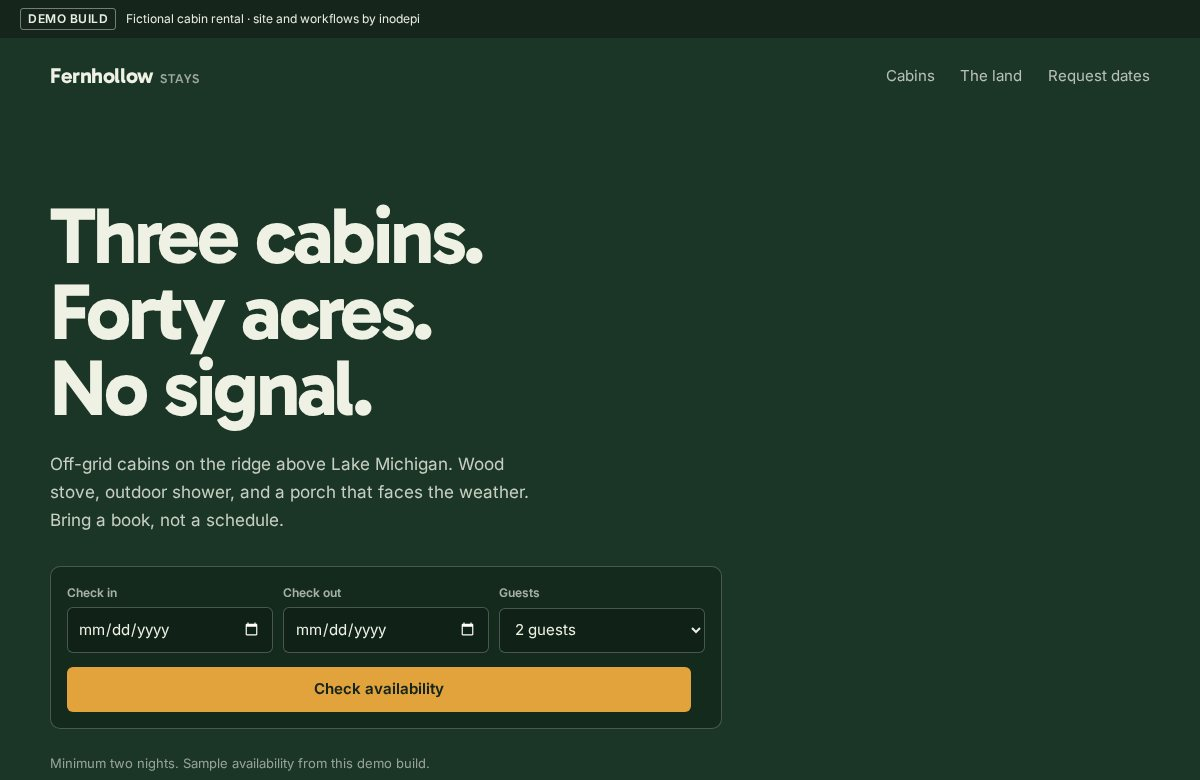
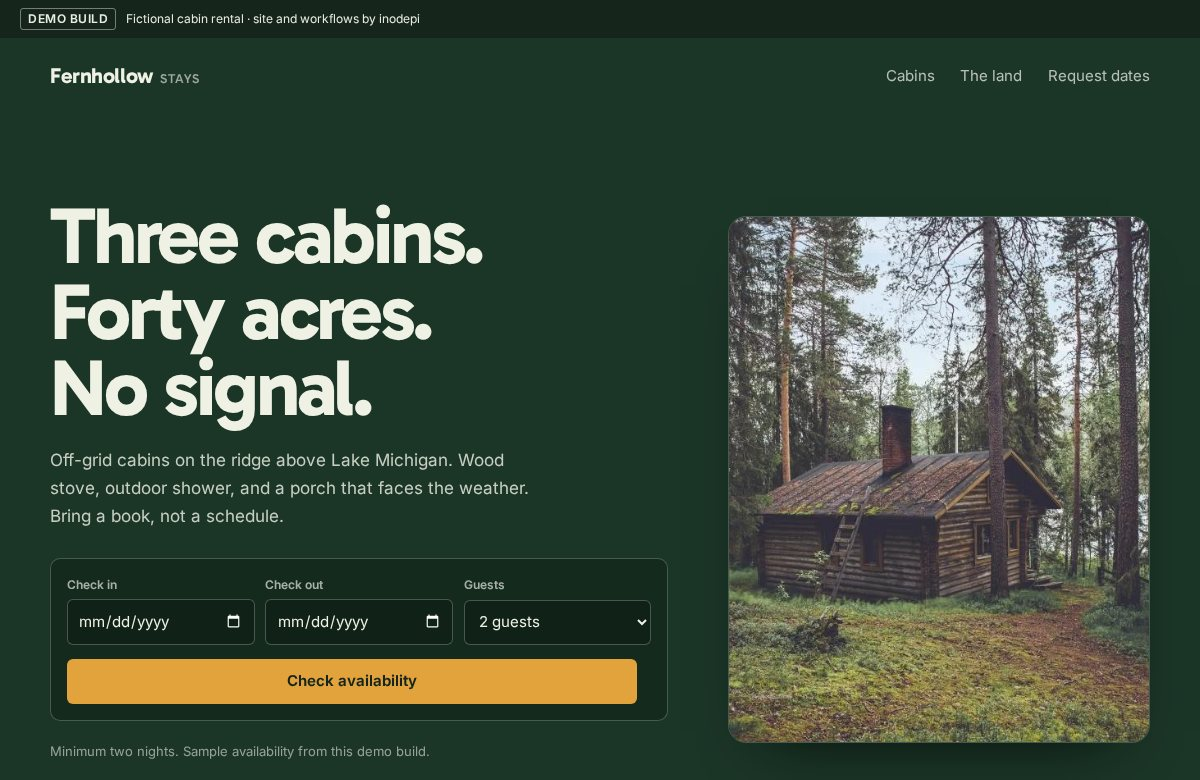
Add photography to the demo builds
Cabin exteriors and an interior hero for Fernhollow, a night highway for
Redline, a heating-system detail for FurnaceWorks and a clean operatory for
Lumen Smile. Photos are CC0/public-domain, cropped and graded per brand,
shipped as WebP with credits in public/demo/CREDITS.md.

Also fixes images rendering at their attribute height (no height:auto) and
refreshes the /websites previews.

diff --git a/public/demo/CREDITS.md b/public/demo/CREDITS.md
@@ -1,0 +1,13 @@
+# Demo image credits
+
+All photos are CC0 / public domain, sourced through Openverse, then re-cropped and
+colour-graded per demo. Titles in the source catalogues are inconsistent, so entries
+cite the landing page instead.
+
+- `public/demo/fernhollow/hero.webp` — CC0, Olivier Guillard via stocksnap. https://stocksnap.io/photo/wood-logs-HJAYJG4OLY
+- `public/demo/fernhollow/cabin-hollow.webp` — CC0, Eneida Nieves via stocksnap. https://stocksnap.io/photo/log-cabin-T0BHAFEFFR
+- `public/demo/fernhollow/cabin-ridge.webp` — CC0, Rawpixel contributor via rawpixel. https://www.rawpixel.com/image/3291838/free-photo-image-forest-nature-cottage-wood-building
+- `public/demo/fernhollow/cabin-fen.webp` — CC0, Rawpixel contributor via rawpixel. https://www.rawpixel.com/image/5950217/free-public-domain-cc0-photo
+- `public/demo/lumen-dental/room.webp` — CC0, Daniel Frank via stocksnap. https://stocksnap.io/photo/chair-dentist-3J10QN5PTS
+- `public/demo/redline-towing/hero.webp` — CC0, Markus Spiske via rawpixel. https://www.rawpixel.com/image/432483/free-photo-image-night-road-traffic
+- `public/demo/furnaceworks/detail.webp` — CC0, Rawpixel contributor via rawpixel. https://www.rawpixel.com/image/5904122/thermostat-free-public-domain-cc0-photo

diff --git a/DESIGN.md b/DESIGN.md
@@ -54,6 +54,16 @@ Shared rules:
 - No horizontal overflow at 320px; form states (empty, filled, success, reset) all tested.
 - Static Astro output, no client framework; forms use one inline script per page.
 
+## Photography
+
+- Demo photos are CC0 / public-domain images sourced through Openverse (Stocksnap,
+  Rawpixel), stored per demo under `public/demo/<slug>/`, and credited in
+  `public/demo/CREDITS.md`.
+- Each photo is cropped to its display slot and graded to the brand: Redline dusk-cool,
+  Lumen warmed, FurnaceWorks cooled, Fernhollow left natural. All ship as WebP.
+- No third-party logos, readable phone numbers, or client work appear in frame; photos
+  support the demo story rather than standing in for proof.
+
 ## Known deliberate choices
 
 - The main site keeps a 52px grid background and noise overlay as the drafting-paper motif;
